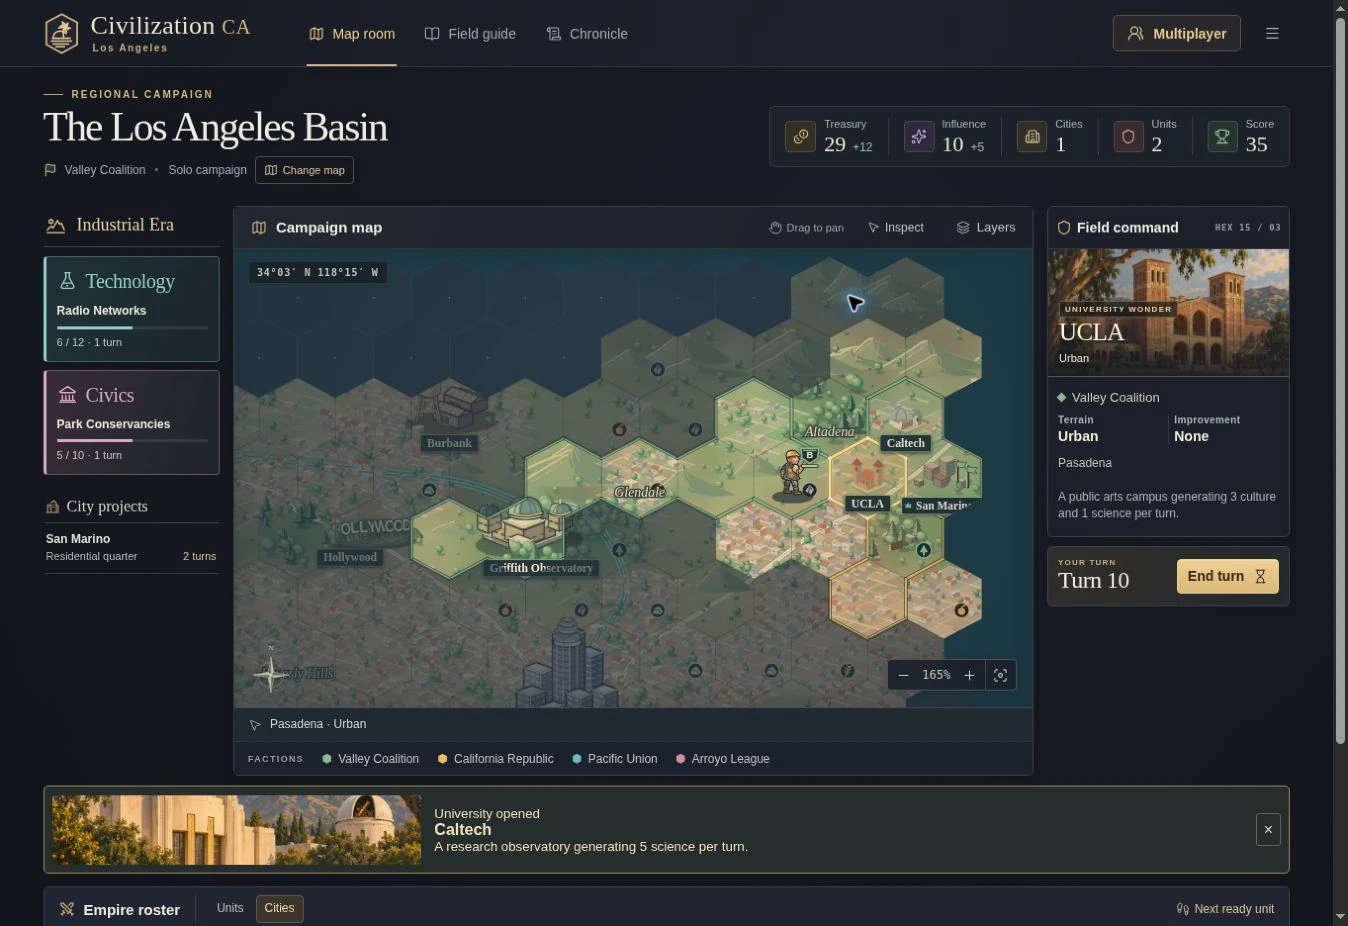
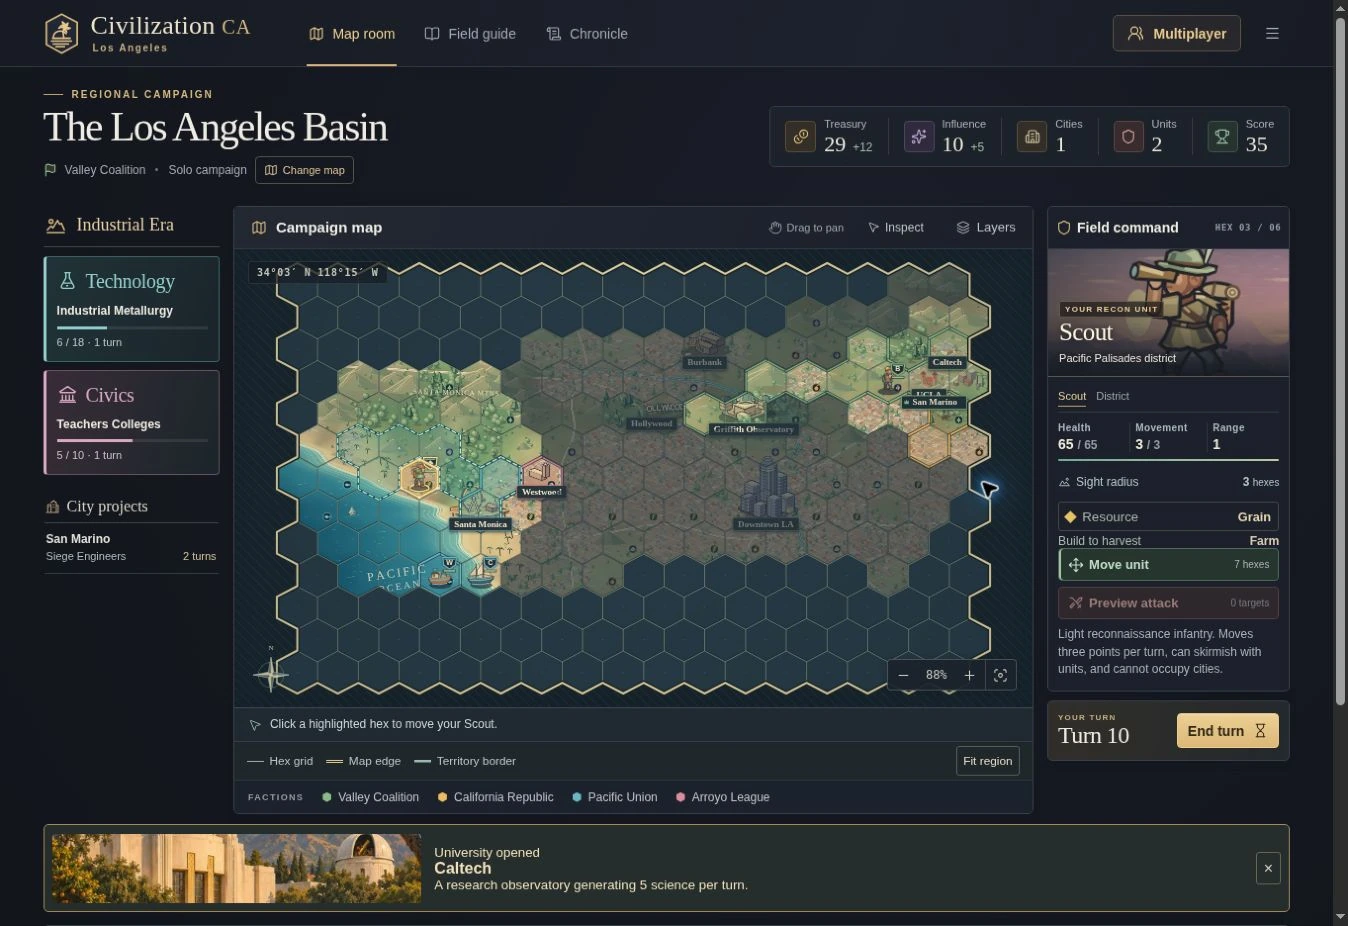
Connect recruitment paths and compare formations in the field guide

diff --git a/docs/army-handbook.js b/docs/army-handbook.js
@@ -1,0 +1,46 @@
+// The same unit definitions drive recruitment, combat, and this comparison.
+import {UNIT_TYPES, TECHS, CIVICS, ERAS} from './rules.js';
+import {getSightRadius} from './vision.js';
+
+const notes = {
+  settler: 'Founds a city on a legal settlement site.',
+  builder: 'Spends charges to improve land connected to a friendly city.',
+  melee: 'Captures a weakened city through an adjacent attack.',
+  ranged: 'Can attack from two hexes away.'
+};
+
+export function handbookRows(era) {
+  return Object.entries(UNIT_TYPES).filter(([,unit])=>unit.era===era).map(([id,unit])=>{
+    const requirements = [];
+    if (unit.tech) requirements.push(TECHS[unit.tech].name);
+    if (unit.civic) requirements.push(CIVICS[unit.civic].name);
+    if (unit.domain==='sea') requirements.push('Harbor');
+    if (unit.shipyard || id==='frigate') requirements.push('Shipyard');
+    return {
+      name:unit.name, moves:unit.moves, sight:getSightRadius(id), range:unit.range, cost:unit.required,
+      requirements, note:unit.description || notes[id] || '', upgrade:UNIT_TYPES[unit.upgrade]?.name
+    };
+  });
+}
+
+export function armyHandbook(escapeHTML) {
+  const safe = escapeHTML;
+  function badges(names) {
+    return names.map(name=>'<span class="manual-tag">'+safe(name)+'</span>').join('');
+  }
+  const chapter = Object.values(ERAS).map((era,index)=>{
+    const units = handbookRows(era.id);
+    if (!units.length) return '';
+    const rows = units.map(unit=>{
+      const description = unit.note ? '<p>'+safe(unit.note)+'</p>' : '';
+      const upgrade = unit.upgrade ? '<p class="manual-unlocks"><b>Upgrades to</b>'+badges([unit.upgrade])+'</p>' : '';
+      const info = '<details><summary>'+safe(unit.name)+'</summary>'+description+
+        '<p class="manual-unlocks"><b>Train with</b>'+badges(unit.requirements.length ? unit.requirements : ['City center'])+'</p>'+upgrade+'</details>';
+      return '<tr><th scope="row">'+info+'</th><td>'+unit.moves+'</td><td>'+unit.sight+'</td><td>'+unit.range+'</td><td>'+unit.cost+'</td></tr>';
+    }).join('');
+    const header = ['Formation','Move','Sight','Range','Cost'].map(name=>'<th scope="col">'+name+'</th>').join('');
+    return '<details class="manual-era" '+(index===0?'open':'')+'><summary><strong>'+safe(era.name)+'</strong><span>'+units.length+'</span></summary>'+
+      '<table><caption class="sr-only">Base unit statistics</caption><thead><tr>'+header+'</tr></thead><tbody>'+rows+'</tbody></table></details>';
+  }).join('');
+  return '<section class="army-manual"><p>Compare base movement, sight, attack range and production cost. Select a formation to see its role and requirements.</p>'+chapter+'</section>';
+}

diff --git a/docs/game.js b/docs/game.js
@@ -1,4 +1,5 @@
 import {invitationCode, launchDestination} from './launch.js';
+import {armyHandbook} from './army-handbook.js';
 import {ledgerBody} from './resource-ledger.js';
 import {getResourceLedger} from './rules.js';
 import {getLanguage, installLanguage, languageControl, observeCityNames, setLanguage} from './i18n.js';
@@ -571,6 +572,7 @@ const guideSections = {
     ['Choose a building', 'A granary provides food, a workshop adds production, a monument earns influence and walls strengthen city defenses. Each city can build one of each.'],
     ['Make room for recruits', 'Land units deploy in the city or an adjacent open, passable hex in friendly or neutral territory. Ships deploy at the harbor or in neighboring open water. Clear a deployment space before ending your turn.']
   ]},
+  formations: {label:'Unit handbook'},
   battle: {label:'Field tactics', entries:[
     ['Train a scout', 'A Scout is available as soon as you found a city. It has three movement points to a Militia unit’s two. Forests and hills still cost two points to enter.'],
     ['Choose a frontier formation', 'Trail skirmishers cross woods and hills for one movement point. Pike Guards make poor targets for cavalry and gain a bonus when attacking mounted scouts.'],
@@ -615,7 +617,7 @@ function content() {
     const tabs = `<div class="modal-tabs" role="tablist" aria-label="Field guide chapters">${Object.entries(guideSections).map(([key,section]) =>
       `<button type="button" class="modal-tab" role="tab" aria-selected="${guideTab === key}" data-act="guide-${key}">${section.label}</button>`).join('')}</div>`;
     return {kicker:'Field guide', title:'How to play', body:tabs +
-      list(guideSections[guideTab].entries.map(([title, text]) => row(title, text))) + actions(button('back', 'Return to map', 'primary'))};
+      (guideTab === 'formations' ? armyHandbook(escapeHTML) : list(guideSections[guideTab].entries.map(([title, text]) => row(title, text)))) + actions(button('back', 'Return to map', 'primary'))};
   }
   if (modal === 'log') return {
     kicker: 'Campaign records', title: 'Event log',

diff --git a/lib/visitors.js b/lib/visitors.js
@@ -17,17 +17,22 @@ export function isVisitorId(value) {
 export async function visitCounts(database, visitorId, instant = new Date()) {
   const db = database.withSession?.("first-primary") ?? database;
   const day = calendarDay(instant);
-  if (visitorId !== null) {
-    if (!isVisitorId(visitorId)) throw new TypeError("Invalid visitor identifier");
-    const bytes = await crypto.subtle.digest("SHA-256", new TextEncoder().encode(visitorId));
-    const hash = Array.from(new Uint8Array(bytes), byte => byte.toString(16).padStart(2, "0")).join("");
-    await db.prepare(`INSERT INTO site_visitors (browser_hash, last_day) VALUES (?, ?)
-      ON CONFLICT(browser_hash) DO UPDATE SET last_day = excluded.last_day
-      WHERE site_visitors.last_day < excluded.last_day`).bind(hash, day).run();
-  }
-  return db.prepare(`SELECT
+  const totals = db.prepare(`SELECT
     (SELECT count(*) FROM site_visitors) AS total,
     (SELECT count(*) FROM site_visitors WHERE last_day BETWEEN ? AND ?) AS month,
     (SELECT count(*) FROM site_visitors WHERE last_day = ?) AS day`)
-    .bind(day.slice(0, 7) + "-01", day, day).first();
+    .bind(day.slice(0, 7) + "-01", day, day);
+  if (visitorId === null) return totals.first();
+  if (!isVisitorId(visitorId)) throw new TypeError("Invalid visitor identifier");
+  const bytes = await crypto.subtle.digest("SHA-256", new TextEncoder().encode(visitorId));
+  const hash = Array.from(new Uint8Array(bytes), byte => byte.toString(16).padStart(2, "0")).join("");
+  const activity = db.prepare(`INSERT INTO site_visitors (browser_hash, last_day) VALUES (?, ?)
+    ON CONFLICT(browser_hash) DO UPDATE SET last_day = excluded.last_day
+    WHERE site_visitors.last_day < excluded.last_day`).bind(hash, day);
+  if (db.batch) {
+    const [, result] = await db.batch([activity, totals]);
+    return result.results[0];
+  }
+  await activity.run();
+  return totals.first();
 }

diff --git a/docs/zh-catalog.js b/docs/zh-catalog.js
@@ -969,4 +969,19 @@ Support an assault|支援进攻
 Siege Engineers can capture a walled city after its garrison falls. Keep a Signal Corps one hex from a friendly attacker to add 8 damage against rival civilizations. Check the forecast to see the active bonuses.|击败驻军后，攻城工兵可以夺取有城墙的城市。让通信队站在友军旁边一格，友军攻击其他文明时可多造成 8 点伤害。战斗预估会列出当前加成。
 Choose a warship|选择作战舰船
 An ironclad is slow and tough and excels at coastal sieges. An escort destroyer moves four hexes and deals extra damage to armed ships. Both launch from a shipyard.|港防铁甲舰速度较慢，耐久性高，擅长近岸攻城。护航驱逐舰可移动四格，攻击武装舰船时有额外伤害。两种船都需要船厂。
+Unit handbook|兵种手册
+Compare base movement, sight, attack range and production cost. Select a formation to see its role and requirements.|比较各兵种的基础移动力、视野、射程和生产成本。点开兵种可查看用途和训练条件。
+Formation|兵种
+Base unit statistics|兵种基础数值
+Move|移动
+Sight|视野
+Range|射程
+Cost|成本
+Train with|训练条件
+Upgrades to|可升级为
+City center|城市中心
+Founds a city on a legal settlement site.|在符合条件的地块建立城市。
+Spends charges to improve land connected to a friendly city.|消耗建造次数，改良与己方城市相连的土地。
+Captures a weakened city through an adjacent attack.|可从相邻地块进攻并占领被削弱的城市。
+Can attack from two hexes away.|可以从两格外发动攻击。
 `);

diff --git a/docs/regiments.js b/docs/regiments.js
@@ -2,12 +2,12 @@
 // authoritative order use the same modifiers so the two views stay in sync.
 export const REGIMENTS = {
   ironclad: {
-    name:'Harbor Ironclad', role:'Coastal siege unit', domain:'sea', era:'industrial', tech:'steam',
+    name:'Harbor Ironclad', role:'Coastal siege unit', domain:'sea', era:'industrial', tech:'metallurgy',
     shipyard:true, moves:2, range:2, maxHp:125, strength:40, required:19, captures:false,
     description:'A slow armored ship that deals 14 extra damage to cities and their garrisons. Requires a shipyard.'
   },
   destroyer: {
-    name:'Escort Destroyer', role:'Fleet escort unit', domain:'sea', era:'modern', tech:'motorization',
+    name:'Escort Destroyer', role:'Fleet escort unit', domain:'sea', era:'modern', tech:'radar',
     shipyard:true, moves:4, range:2, maxHp:90, strength:39, required:19, captures:false,
     description:'A fast escort with four movement points. It deals 18 extra damage to armed ships. Requires a shipyard.'
   },
@@ -27,7 +27,7 @@ export const REGIMENTS = {
     description:'Light ranged infantry. Woodland and foothills cost only one movement point.'
   },
   pikes: {
-    name:'Pike Guard', role:'Defensive infantry unit', era:'frontier', civic:'charter',
+    name:'Pike Guard', role:'Defensive infantry unit', era:'frontier', civic:'mutualAid',
     moves:2, range:1, maxHp:95, strength:34, required:12, captures:true,
     description:'Guards gain 14 attack damage against mounted scouts and cut their incoming charge damage by 14.'
   }

diff --git a/docs/atlas.js b/docs/atlas.js
@@ -793,6 +793,15 @@ function paintHexFocus(g,model,scale) {
   }
 }
 
+// All rows contain these inner bounds, including the inset on alternating rows.
+// Keep the complete nameplate inside the campaign's stepped cutline.
+export function fitAtlasCaption(x,y,halfWidth,halfHeight) {
+  const horizontal = W/2 + halfWidth + 3;
+  const vertical = H/4 + halfHeight + 4;
+  return [Math.max(horizontal,Math.min(worldW-horizontal,x)),
+    Math.max(vertical,Math.min(worldH-vertical,y))];
+}
+
 function renderOverlay(g,tiles,model,scale,labels,territories) {
   const {board={},players=[]}=model;
   const getFaction=owner=>players[owner]?.color||FACTION[owner%4]||FACTION[0];
@@ -865,8 +874,9 @@ function renderOverlay(g,tiles,model,scale,labels,territories) {
     const half=(g.measureText(name).width+(city?30:16))*labelScale/2,height=9.5*labelScale;g.restore();
     let best,minimum=Infinity;
     for(const [dx,dy] of [[0,0],[12,-7],[-12,-7],[23,-4],[-23,-4],[9,11],[-9,11],[25,8],[-25,8],[0,-11]]){
-      const xx=x+dx,yy=y+dy,rect=[xx-half,yy-height,xx+half,yy+height];
-      let score=Math.abs(dx)*.7+Math.abs(dy);
+      const [xx,yy]=fitAtlasCaption(x+dx,y+dy,half,height);
+      const rect=[xx-half,yy-height,xx+half,yy+height];
+      let score=Math.abs(xx-x)*.7+Math.abs(yy-y);
       for(const box of labelObstacles.concat(labelBounds)){
         score+=Math.max(0,Math.min(rect[2],box[2])-Math.max(rect[0],box[0]))*
                Math.max(0,Math.min(rect[3],box[3])-Math.max(rect[1],box[1]))*2.4;

diff --git a/docs/army-handbook.css b/docs/army-handbook.css
@@ -1,0 +1,19 @@
+.army-manual { color: var(--text, #e4dfd1); }
+.army-manual > p { color: #bdc7c7; line-height: 1.45; }
+.manual-era { border-bottom: 1px solid #4b5154; }
+.manual-era > summary { display: flex; align-items: center; gap: .6rem; min-height: 2.8rem; cursor: pointer; color: #ebd4a7; }
+.manual-era > summary::before { content: '▸'; }
+.manual-era[open] > summary::before { content: '▾'; }
+.manual-era > summary > span { margin-left: auto; font-size: .8rem; color: #bac0bc; }
+.manual-era table { width: 100%; border-collapse: collapse; font-size: .85rem; }
+.manual-era thead { color: #adbcba; }
+.manual-era :is(th,td) { padding: .45rem .24rem; border-top: 1px solid #343d43; text-align: center; font-variant-numeric: tabular-nums; }
+.manual-era th:first-child { width: 53%; text-align: left; }
+.manual-era tbody th { font-weight: 500; }
+.manual-era summary { cursor: pointer; }
+.manual-era details p { margin: .55rem .12rem; font-size: .8rem; color: #c4cdcd; line-height: 1.4; }
+.manual-unlocks { display:flex; align-items:center; gap:.3rem; flex-wrap:wrap; }
+.manual-unlocks b { font-weight:500; margin-right:.21rem; }
+.manual-tag { color:#e6d2ae; padding:.07rem .33rem; border:1px solid #655d4f; border-radius:3px; }
+
+.army-manual .sr-only { position:absolute; width:1px; height:1px; padding:0; overflow:hidden; clip-path:inset(50%); white-space:nowrap; }

diff --git a/docs/hud.js b/docs/hud.js
@@ -458,7 +458,7 @@ function paintResearch(){
         if (id==='research') {
           const links=researchLinks(o.item,c.options,UNIT_TYPES);
           for (const [label,items] of [['Trains',links.formations],['Leads to',links.discoveries]]) {
-            if (items.length) researchNotes+='<span class="research-links"><span>'+esc(label)+'</span> · <span>'+esc(items.join(', '))+'</span></span>';
+            if (items.length) researchNotes+='<span class="research-links"><span>'+esc(label)+'</span> · <span>'+items.map(name=>'<span>'+esc(name)+'</span>').join(', ')+'</span></span>';
           }
         }
         return '<button class="project-option" data-project="'+esc(o.item)+'" data-status="'+(o.completed?'complete':o.active?'active':o.locked?'locked':'available')+'" '+(!o.enabled||!mayOrder()?'disabled':'')+'><span class="project-name">'+esc(o.label)+'</span><span class="project-description">'+esc(o.description)+'</span>'+universitiesUnlockedBy(o.item).map(name=>'<span class="project-prereqs"><span>Unlocks university</span> · <span>'+esc(name)+'</span></span>').join('')+prereq+researchNotes+'<span class="project-meta"><span>'+esc(o.cost+" "+c.resource)+'</span><b>'+esc(label)+'</b></span></button>';

diff --git a/tests/army-handbook.test.js b/tests/army-handbook.test.js
@@ -1,0 +1,22 @@
+import test from 'node:test';
+import assert from 'node:assert/strict';
+import {handbookRows} from '../docs/army-handbook.js';
+import {CIVICS, ERAS, TECHS, UNIT_TYPES} from '../docs/rules.js';
+
+test('the handbook lists each trainable unit once, with the rules engine’s stats and gates',()=>{
+  const entries=Object.values(ERAS).flatMap(era=>handbookRows(era.id));
+  assert.equal(entries.length,Object.keys(UNIT_TYPES).length);
+  assert.equal(new Set(entries.map(u=>u.name)).size,entries.length);
+  for (const unit of Object.values(UNIT_TYPES)) {
+    const row=entries.find(u=>u.name===unit.name);
+    assert.equal(row?.cost,unit.required);
+    assert.equal(row.moves,unit.moves);
+    assert.ok(row.sight>=1);
+  }
+  for (const [id, requirements] of [
+    ['pikes', [CIVICS.mutualAid.name]],
+    ['ironclad', [TECHS.metallurgy.name, 'Harbor', 'Shipyard']],
+    ['destroyer', [TECHS.radar.name, 'Harbor', 'Shipyard']]
+  ]) assert.deepEqual(entries.find(row=>row.name===UNIT_TYPES[id].name).requirements,requirements);
+  assert.deepEqual(entries.find(u=>u.name==='Steam frigate').requirements,['Steam Power','Harbor','Shipyard']);
+});

diff --git a/tests/hex-survey.test.js b/tests/hex-survey.test.js
@@ -65,3 +65,19 @@ test('fit region includes the whole campaign and a margin on phones and wide can
     assert.notEqual(translate(label,'zh-CN'),label);
   }
 });
+
+test('both localized city nameplates fit inside the staggered easternmost row',async()=>{
+  const {fitAtlasCaption}=await import('../docs/atlas.js');
+  const {tiles}=getMap('la');
+  const interior=(x,y)=>tiles.some(tile=>{
+    const [tx,ty]=pos(tile.q,tile.r),dx=Math.abs(tx-x),dy=Math.abs(ty-y);
+    return dx<=36 && dy<=38-dx*76/144;
+  });
+  for (const id of ['16,3','16,12','0,0','0,11']) {
+    const [q,r]=id.split(',').map(Number),[x,y]=pos(q,r);
+    for (const half of [49,72]) {
+      const [cx,cy]=fitAtlasCaption(x,y+26,half,12);
+      for(const side of [-1,1]) for(const end of [-1,1]) assert.ok(interior(cx+side*half,cy+end*12));
+    }
+  }
+});

diff --git a/docs/visitor-counts.css b/docs/visitor-counts.css
@@ -1,5 +1,11 @@
 #visitor-counts {
-  position: relative;
+  position: fixed;
+  bottom: 0;
+  left: 0;
+  z-index: 3;
+  pointer-events: none;
+  border-radius: 0 4px 0 0;
+  background: #11191de8;
   width: fit-content;
   max-width: 100%;
   padding: 4px max(12px, env(safe-area-inset-left)) max(5px, env(safe-area-inset-bottom));
@@ -35,11 +41,5 @@
   color: #e0e5e2;
   font-size: .75rem;
 }
-body.on-title #visitor-counts {
-  position: fixed;
-  bottom: 0;
-  left: 0;
-  z-index: 3;
-  border-radius: 0 4px 0 0;
-  background: #11191de8;
-}
+#visitor-counts :is(summary, p) { pointer-events: auto; }
+body:not(.on-title) .app > footer { padding-bottom: max(30px, calc(17px + env(safe-area-inset-bottom))); }

diff --git a/docs/styles.css b/docs/styles.css
@@ -1,5 +1,6 @@
 @import url("./hex-survey.css");
 @import url('./research-catalog.css');
+@import url("./army-handbook.css");
 @import url("./city-planning.css");
 @import url("./policy.css");
 @import url("./campus.css");
